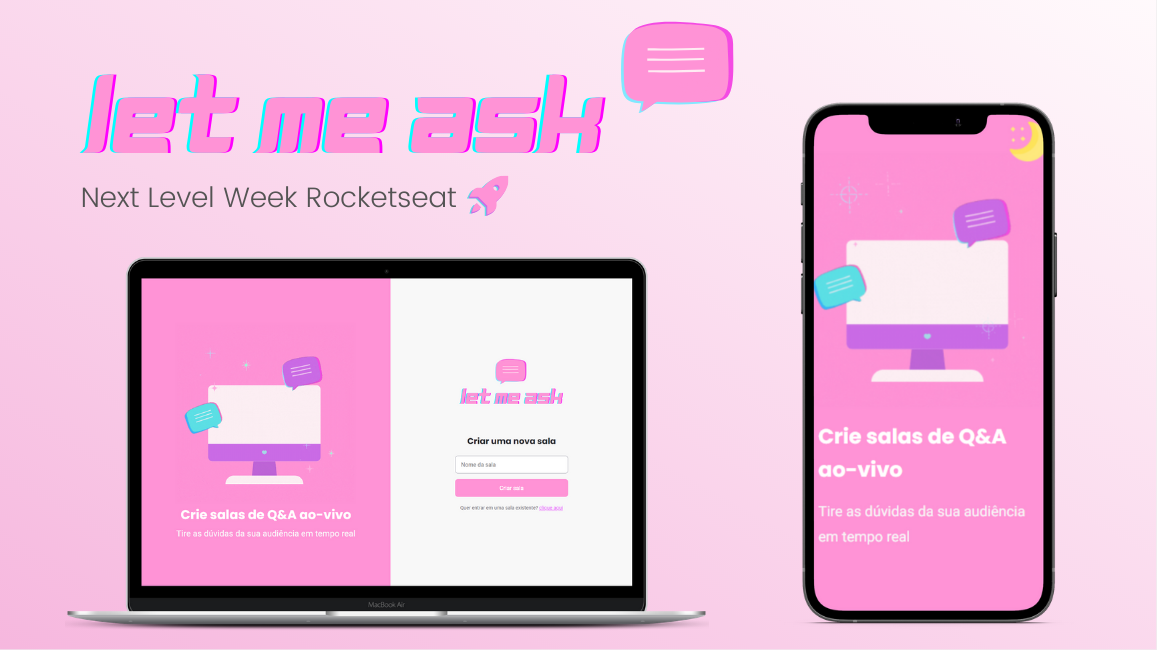
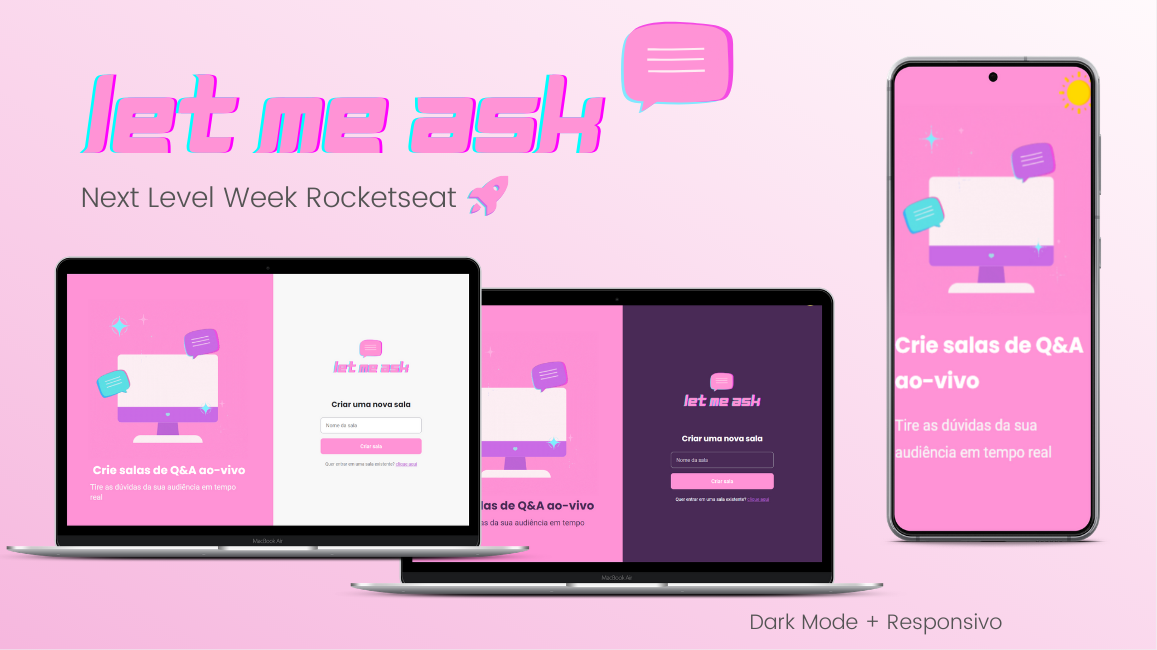
:construction: adicionando dark mode

diff --git a/src/styles/room.scss b/src/styles/room.scss
@@ -1,4 +1,7 @@
 #page-room {
+    min-height: 100vh;
+    height: 100%;
+
     header {
         padding: 24px;
         border-bottom: 1px solid #e2e2e2;
@@ -123,7 +126,74 @@
             margin-top: 32px;
         }
     }
+
 }
+
+#page-room.dark {
+       background-color: #492a56;
+
+       header {
+           border-bottom: 1px solid #e1a1c9;
+           .content {
+               .room-code {
+                   background-color: transparent;
+                   color: #FFF;
+               }
+               
+           }
+        }
+
+        main {
+
+            .room-title {
+
+                 h1{
+                     color: #FFF;
+                 }
+             }
+
+             form {
+                 textarea { 
+                    background-color: #6d4a7b;
+                    &::placeholder {
+                        color: rgba(255, 255, 255, 0.767);
+                    }
+                 }
+                 .form-footer {
+                     span {
+                        color: rgba(255, 255, 255, 0.466);
+                     }
+                 }
+             }
+             .question-list {
+                .question {
+                    background-color: #6d4a7b;
+                    color: rgba(255, 255, 255, 0.767);
+
+                    p, span {
+                        color: rgba(255, 255, 255, 0.589);
+                    }
+
+                    &.highlighted {
+                        background-color: rgba(139, 74, 134, 0.733);
+                        p, span {
+                            color: rgba(255, 255, 255, 0.767);
+                        }
+                    }
+
+                    &.answered {
+                        background-color: #63526b;
+                        p, span {
+                            color: rgba(255, 255, 255, 0.315);
+                        }
+                    }
+                }
+             }
+        }
+        .button.outlined {
+            background-color: transparent;
+        }
+   }
 
 @media only screen and (max-width: 768px) {
     #page-room {

diff --git a/src/contexts/AuthContext.tsx b/src/contexts/AuthContext.tsx
@@ -21,7 +21,7 @@ export const AuthContext = createContext({} as AuthContextType);
 
 export function AuthContextProvider(props: AuthContextProviderType) {
     const [user, setUser] = useState<User>();
-    const [loading, setLoading] = useState(true);
+    // const [loading, setLoading] = useState(true);
 
     useEffect(() => {
         const unsubscribe = auth.onAuthStateChanged(user => {
@@ -37,7 +37,7 @@ export function AuthContextProvider(props: AuthContextProviderType) {
                 name: displayName,
                 avatar: photoURL
                 })
-                setLoading(false)
+                // setLoading(false)
             }
         })
 
@@ -67,9 +67,9 @@ export function AuthContextProvider(props: AuthContextProviderType) {
         }
     }
 
-    if(loading) {
-        return <p>Carregando</p>
-    }
+    // if(loading) {
+    //     return <p>Carregando</p>
+    // }
 
     return (
         <AuthContext.Provider value={{ user, signInWithGoogle }}>

diff --git a/src/styles/question.scss b/src/styles/question.scss
@@ -11,7 +11,7 @@
 
     
     &.highlighted {
-        background: #fff0f6;
+        background: #ffebfc;
         border: 1px solid #FF93D6;
         
         footer .user-info span {
@@ -59,7 +59,7 @@
             border: 0;
             background: transparent;
             cursor: pointer;
-            transition: filter 0.4s;
+            transition: 0.3s;
 
             &.like-button {
                 display: flex;
@@ -74,11 +74,14 @@
                         stroke: #FF93D6;
                     }
                 }
+                &:hover{
+                        svg path {
+                            stroke: #ee56b4;
+                        }
+                   
+                }
             }
 
-            &:hover{
-                filter: brightness(0.6);
-            }
         }
     }
 }

diff --git a/src/styles/auth.scss b/src/styles/auth.scss
@@ -151,6 +151,38 @@
     }
 }
 
+#page-auth.dark {
+    aside {
+        strong {
+            color: #492a56;
+        }
+        p{
+            color: #492a56;
+        }
+    }
+    main {
+        background-color: #492a56;
+
+        form {
+            input {
+                background-color: #492a56;
+                color: #FFF;
+                &::placeholder {
+                    color: rgba(255, 255, 255, 0.726);
+                }
+            }
+
+        }
+    }
+
+    .main-content {
+
+        h2, p {
+            color: #FFF;
+        }
+    }
+}
+
 /*responsivo*/
 @media only screen and (max-width: 768px) {
     #page-auth {
@@ -161,7 +193,7 @@
         }
 
         img {
-            max-width: 320px;
+            max-width: 100%;
         }
 
         strong {

diff --git a/src/pages/NewRoom.tsx b/src/pages/NewRoom.tsx
@@ -41,7 +41,7 @@ export function NewRoom() {
     }
 
     return (
-        <div id="page-auth">
+        <div id="page-auth" className={theme}>
             <aside>
                 <img src={illustration} alt="Ilustração simbolizando perguntas e respostas"/>
                 <strong>Crie salas de Q&amp;A ao-vivo</strong>

diff --git a/src/pages/AdminRoom.tsx b/src/pages/AdminRoom.tsx
@@ -58,7 +58,7 @@ export function AdminRoom() {
     }
 
     return (
-        <div id="page-room">
+        <div id="page-room" className={theme}>
             <header>
                 <div className="content">
                     <img src={logoImg} alt="Letmeask logo"/>

diff --git a/src/pages/Room.tsx b/src/pages/Room.tsx
@@ -73,7 +73,7 @@ export function Room() {
     }
 
     return (
-        <div id="page-room">
+        <div id="page-room" className={theme}>
             <header>
                 <div className="content">
                     <img src={logoImg} alt="Letmeask logo"/>

diff --git a/src/styles/global.scss b/src/styles/global.scss
@@ -6,7 +6,8 @@
 
 body {
     background-color: #f8f8f8;
-    color: #29292e;
+    color: #29292e; 
+    height: 100%;
 }
 
 body, input, button, textarea {
